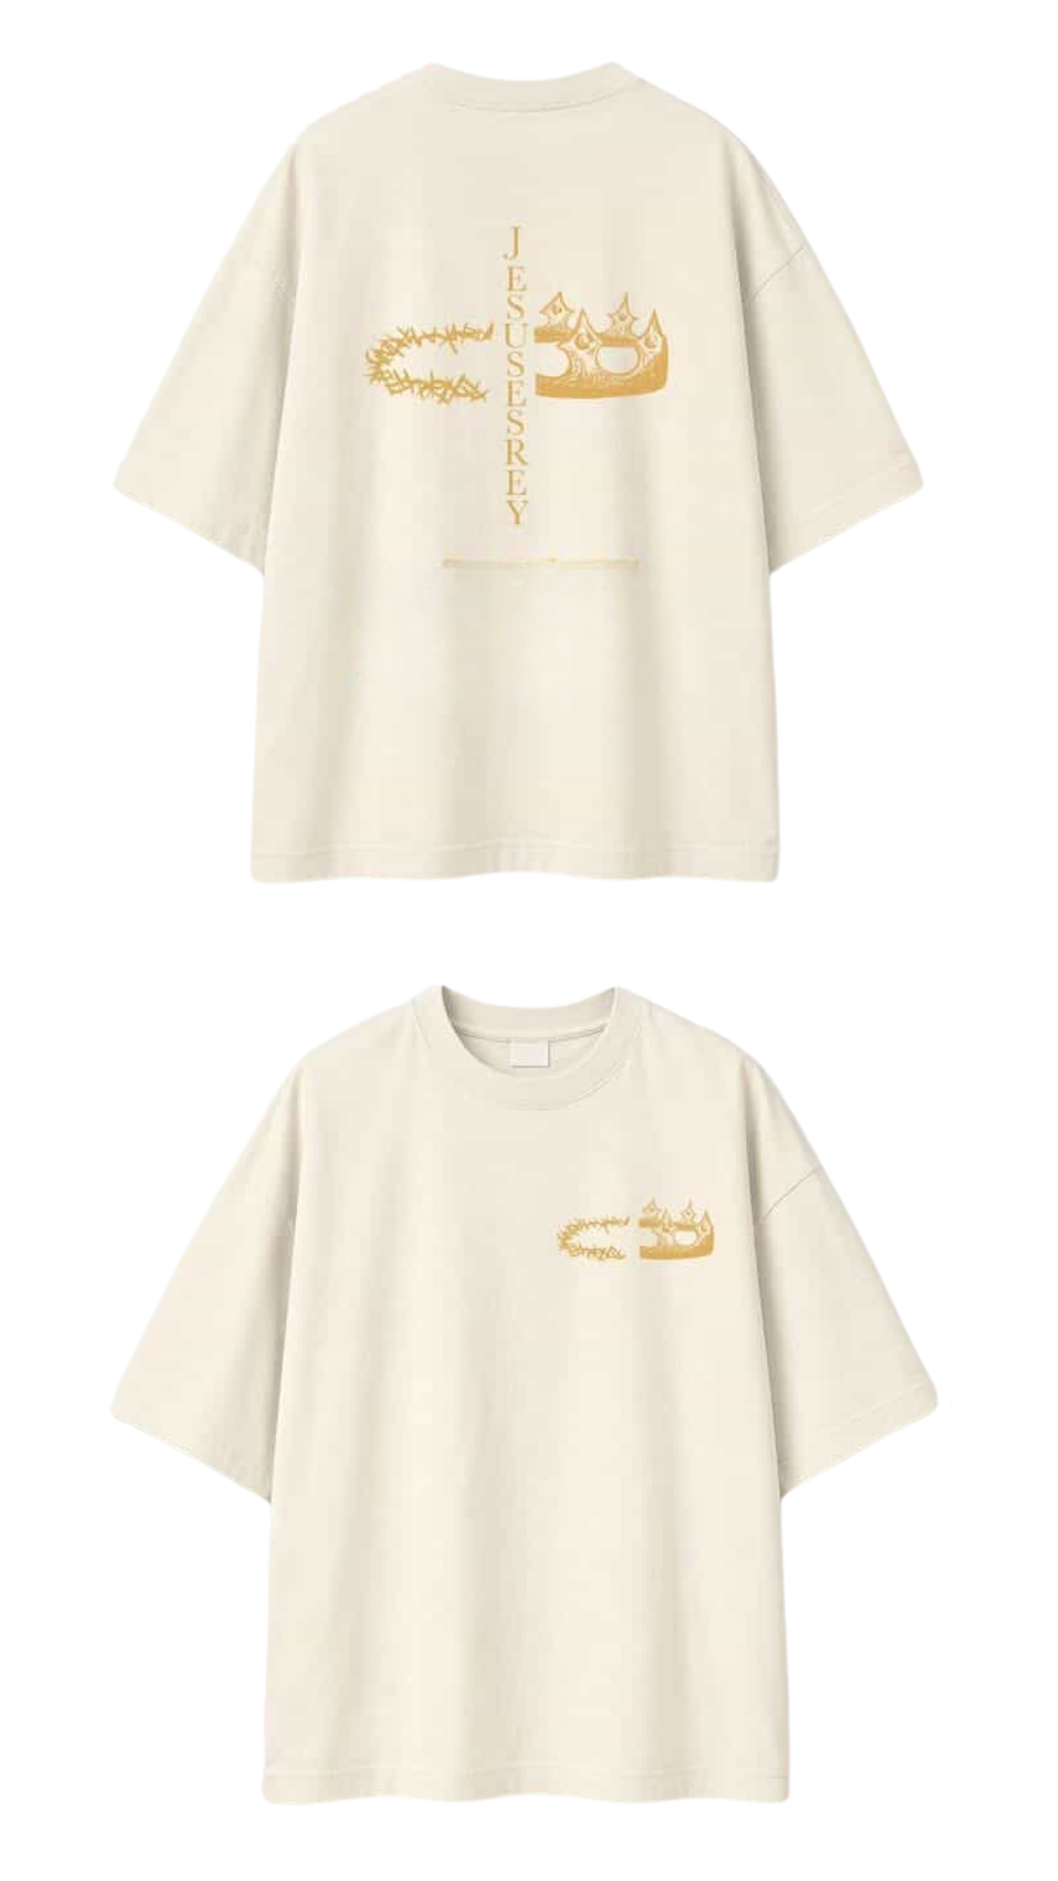
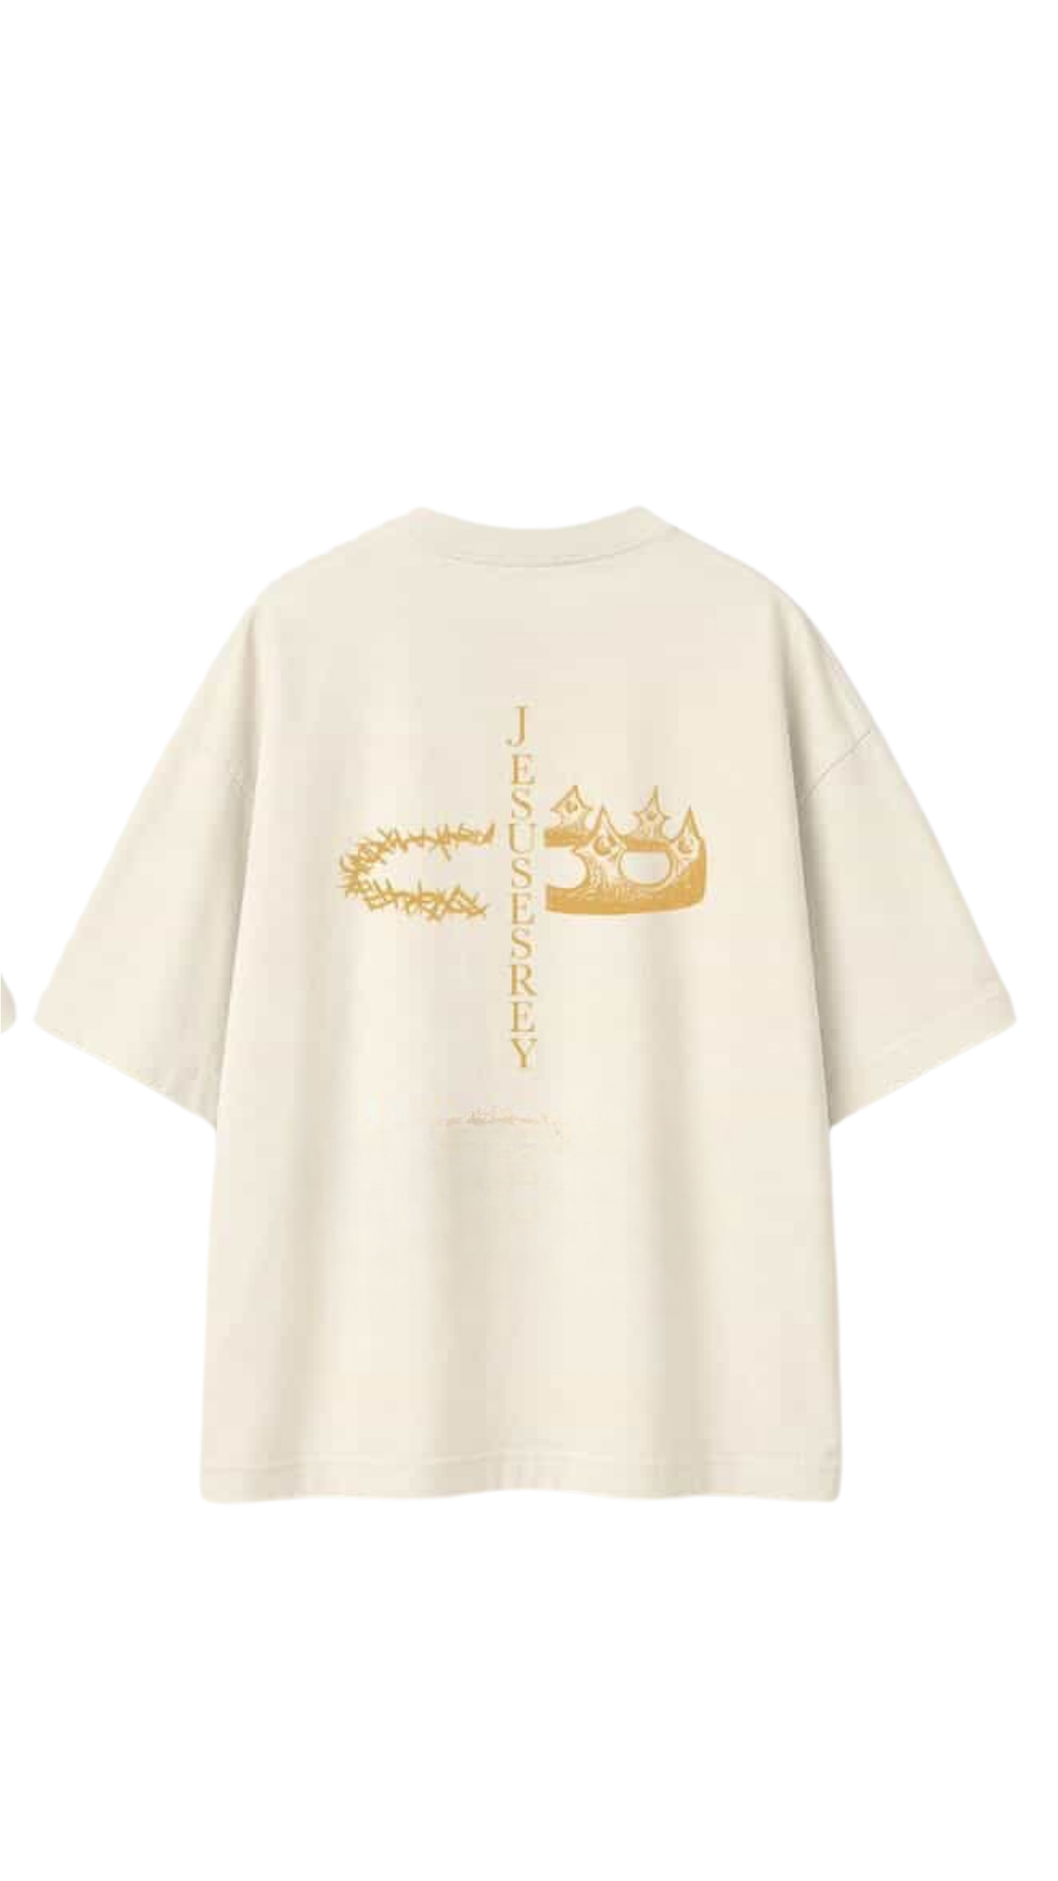
Merch: consistent card height + front/back lightbox tabs; content fixes
Merch page:
- Reserve thumbnail-row height on every card (visibility:hidden when a
  model has no back image) so front-only and front/back cards align
  at the same height.
- Zoom lightbox now shows "Frente"/"Espalda" tabs when a model has a
  back image, instead of only ever showing whichever image was active
  on the card; front-only models show no tabs.
- Official product photos added (jesus-es-rey front/back, me-hallaste
  front).

Content corrections (index.html, main.js, components.js, README.md,
CLAUDE.md, AGENTS.md, llms.txt):
- PVJ stands for "Plan Vacacional Juvenil", not "Proyecto Vida
  Juvenil".
- Organizing group is the Ministerio Juvenil (not "Ministerio de
  Proclamación") of Iglesia Bautista Emanuel, La Castellana, Caracas
  — corrected in the footer, Event JSON-LD organizer, README, and
  CLAUDE.md/AGENTS.md.
- Venue corrected to "Campamento Nacional Bautista, Campo Carabobo"
  (was the wrong name "Fundación Bautista Campo de Carabobo");
  flagged in CLAUDE.md/AGENTS.md/llms.txt/README as specific to the
  2026 edition, not a permanent fact.
- Hero verse now cites "Romanos 12:2 (NVI)" with the version, and the
  same "specific to this edition" caveat applies to the theme verse.

diff --git a/index.html b/index.html
@@ -33,16 +33,17 @@
       "@context": "https://schema.org",
       "@type": "Event",
       "name": "PVJ 2026 — In-Cómoda-Mente",
-      "description": "Campamento Juvenil cristiano basado en Romanos 12:2. Experiencia de 5 días con alojamiento, comidas, transporte y actividades incluidas. Salida desde Iglesia Bautista Emanuel, La Castellana, Caracas.",
+      "description": "Campamento Juvenil cristiano basado en Romanos 12:2. Experiencia de 5 días en el Campamento Nacional Bautista, Campo Carabobo, con alojamiento, comidas, transporte y actividades incluidas. Salida desde Iglesia Bautista Emanuel, La Castellana, Caracas.",
       "startDate": "2026-08-24",
       "endDate": "2026-08-28",
       "eventStatus": "https://schema.org/EventScheduled",
       "eventAttendanceMode": "https://schema.org/OfflineEventAttendanceMode",
       "location": {
         "@type": "Place",
-        "name": "Fundación Bautista Campo de Carabobo",
+        "name": "Campamento Nacional Bautista",
         "address": {
           "@type": "PostalAddress",
+          "streetAddress": "Campo Carabobo",
           "addressLocality": "Valencia",
           "addressRegion": "Carabobo",
           "addressCountry": "VE"
@@ -50,7 +51,7 @@
       },
       "organizer": {
         "@type": "Organization",
-        "name": "Iglesia Bautista Emanuel",
+        "name": "Ministerio Juvenil — Iglesia Bautista Emanuel",
         "url": "https://pvjcampamento.com/"
       },
       "offers": {
@@ -100,7 +101,7 @@
       "@type": "FAQPage",
       "mainEntity": [
         { "@type": "Question", "name": "¿Qué debo llevar al campamento?", "acceptedAnswer": { "@type": "Answer", "text": "Debes traer: ropa cómoda para actividades al aire libre, traje de baño, toalla, aseo personal, sábanas y cobijas, medicamentos (si aplica) y documentos de identidad. Te recomendamos no traer objetos de valor como joyas o equipos electrónicos costosos — el equipo no se responsabiliza por pérdidas o daños de objetos personales." } },
-        { "@type": "Question", "name": "¿Se incluye el transporte?", "acceptedAnswer": { "@type": "Answer", "text": "¡Sí, el transporte está incluido! Contarás con traslado desde la iglesia hasta Campo Carabobo en un transporte cómodo y seguro. No tienes que preocuparte por cómo llegar — nosotros te llevamos." } },
+        { "@type": "Question", "name": "¿Se incluye el transporte?", "acceptedAnswer": { "@type": "Answer", "text": "¡Sí, el transporte está incluido! Contarás con traslado desde la iglesia hasta el Campamento Nacional Bautista en Campo Carabobo, en un transporte cómodo y seguro. No tienes que preocuparte por cómo llegar — nosotros te llevamos." } },
         { "@type": "Question", "name": "¿Cuáles son los métodos de pago aceptados?", "acceptedAnswer": { "@type": "Answer", "text": "Aceptamos Bs. por pago móvil o transferencia a la tasa euro del día BCV. También recibimos efectivo en dólares o euros. Si dispones de otro método de pago, consúltalo al equipo." } },
         { "@type": "Question", "name": "¿Puedo pagar en cuotas?", "acceptedAnswer": { "@type": "Answer", "text": "No somos el logo amarillo, pero definitivamente puedes pagar en cómodas cuotas." } },
         { "@type": "Question", "name": "¿Cómo puedo apartar mi cupo?", "acceptedAnswer": { "@type": "Answer", "text": "Debes realizar un abono de mínimo 10 € a la tasa del día. Si tienes dudas, puedes consultarlo los domingos al finalizar cada culto, o escribirnos por Instagram o WhatsApp, o consultarlo con el staff." } },
@@ -134,7 +135,7 @@
             <p class="hero-subtitle">Campamento Juvenil <span class="hero-accent">2026</span></p>
             <div class="pulse-divider"></div>
             <p class="hero-subtitle" style="font-size: 1rem; margin-top: var(--spacing-lg);">
-                <span class="hero-accent">Romanos 12:2</span><br>No se amolden al mundo actual, sino sean transformados mediante la renovación de su mente.<br>Así podrán comprobar cómo es la voluntad de Dios: buena, agradable y perfecta.
+                <span class="hero-accent">Romanos 12:2 (NVI)</span><br>No se amolden al mundo actual, sino sean transformados mediante la renovación de su mente.<br>Así podrán comprobar cómo es la voluntad de Dios: buena, agradable y perfecta.
             </p>
 
             <!-- COUNTDOWN / CAMPING STATE — populated by main.js -->
@@ -159,7 +160,7 @@
                 <div class="event-detail-item">
                     <div class="event-detail-label">📍 Ubicación</div>
                     <div class="event-detail-value">Carabobo</div>
-                    <div class="event-detail-description">Campo Carabobo, Valencia</div>
+                    <div class="event-detail-description">Campamento Nacional Bautista, Campo Carabobo, Valencia</div>
                 </div>
             </div>
 
@@ -191,7 +192,7 @@
                 <div class="included-item">
                     <div class="included-icon">🚌</div>
                     <h3 class="included-title">Transporte Caracas-Valencia</h3>
-                    <p class="included-description">Viaje <span class="included-highlight">ida y vuelta</span> desde la iglesia hasta Campo Carabobo con autobús cómodo y seguro.</p>
+                    <p class="included-description">Viaje <span class="included-highlight">ida y vuelta</span> desde la iglesia hasta el Campamento Nacional Bautista en Campo Carabobo, con autobús cómodo y seguro.</p>
                 </div>
                 <div class="included-item">
                     <div class="included-icon">🏠</div>
@@ -319,7 +320,7 @@
         <noscript>
             <div class="faq-container">
                 <div class="faq-item active"><div class="faq-question"><span class="faq-question-text">¿Qué debo llevar al campamento?</span></div><div class="faq-answer"><div class="faq-answer-content"><p>Debes traer: ropa cómoda para actividades al aire libre, traje de baño, toalla, aseo personal, sábanas y cobijas, medicamentos (si aplica) y documentos de identidad. Te recomendamos no traer objetos de valor como joyas o equipos electrónicos costosos — el equipo no se responsabiliza por pérdidas o daños de objetos personales.</p></div></div></div>
-                <div class="faq-item active"><div class="faq-question"><span class="faq-question-text">¿Se incluye el transporte?</span></div><div class="faq-answer"><div class="faq-answer-content"><p>¡Sí, el transporte está incluido! Contarás con traslado desde la iglesia hasta Campo Carabobo en un transporte cómodo y seguro. No tienes que preocuparte por cómo llegar — nosotros te llevamos.</p></div></div></div>
+                <div class="faq-item active"><div class="faq-question"><span class="faq-question-text">¿Se incluye el transporte?</span></div><div class="faq-answer"><div class="faq-answer-content"><p>¡Sí, el transporte está incluido! Contarás con traslado desde la iglesia hasta el Campamento Nacional Bautista en Campo Carabobo, en un transporte cómodo y seguro. No tienes que preocuparte por cómo llegar — nosotros te llevamos.</p></div></div></div>
                 <div class="faq-item active"><div class="faq-question"><span class="faq-question-text">¿Cuáles son los métodos de pago aceptados?</span></div><div class="faq-answer"><div class="faq-answer-content"><p>Aceptamos Bs. por pago móvil o transferencia a la tasa euro del día BCV. También recibimos efectivo en dólares o euros. Si dispones de otro método de pago, consúltalo al equipo.</p></div></div></div>
                 <div class="faq-item active"><div class="faq-question"><span class="faq-question-text">¿Puedo pagar en cuotas?</span></div><div class="faq-answer"><div class="faq-answer-content"><p>No somos el logo amarillo, pero definitivamente puedes pagar en cómodas cuotas.</p></div></div></div>
                 <div class="faq-item active"><div class="faq-question"><span class="faq-question-text">¿Cómo puedo apartar mi cupo?</span></div><div class="faq-answer"><div class="faq-answer-content"><p>Debes realizar un abono de mínimo 10 € a la tasa del día. Si tienes dudas, puedes consultarlo los domingos al finalizar cada culto, o escribirnos por Instagram o WhatsApp, o consultarlo con el staff.</p></div></div></div>

diff --git a/mercancia.js b/mercancia.js
@@ -46,15 +46,15 @@ function renderMerchGallery() {
                 <img src="${model.front}" alt="Camisa ${model.name}" class="merch-card-image" data-main-image loading="lazy">
                 <button type="button" class="merch-card-zoom" aria-label="Ver imagen en grande">🔍 Ampliar</button>
             </div>
-            ${hasBack ? `
-            <div class="merch-card-thumbs">
+            <div class="merch-card-thumbs${hasBack ? '' : ' merch-card-thumbs--hidden'}">
+                ${hasBack ? `
                 <button type="button" class="merch-card-thumb active" data-image="${model.front}" aria-label="Ver frente">
                     <img src="${model.front}" alt="Frente ${model.name}" loading="lazy">
                 </button>
                 <button type="button" class="merch-card-thumb" data-image="${model.back}" aria-label="Ver espalda">
                     <img src="${model.back}" alt="Espalda ${model.name}" loading="lazy">
-                </button>
-            </div>` : ''}
+                </button>` : ''}
+            </div>
             <div class="merch-card-body">
                 <h3 class="merch-card-name">${model.name}</h3>
                 <p class="merch-card-colors">${merchColors.join(' · ')}</p>
@@ -88,7 +88,7 @@ function renderMerchGallery() {
         }
 
         card.querySelector('.merch-card-zoom').addEventListener('click', () => {
-            openMerchLightbox(mainImage.src, model.name);
+            openMerchLightbox(model, mainImage.src);
         });
 
         card.querySelector('.merch-card-cta').addEventListener('click', () => {
@@ -102,13 +102,40 @@ function renderMerchGallery() {
 // ============================================
 // IMAGE ZOOM LIGHTBOX
 // ============================================
-function openMerchLightbox(src, alt) {
+function openMerchLightbox(model, initialSrc) {
     const lightbox = document.getElementById('merchLightbox');
     const lightboxImage = document.getElementById('merchLightboxImage');
-    if (!lightbox || !lightboxImage) return;
+    const lightboxTabs = document.getElementById('merchLightboxTabs');
+    if (!lightbox || !lightboxImage || !lightboxTabs) return;
 
-    lightboxImage.src = src;
-    lightboxImage.alt = alt;
+    const hasBack = Boolean(model.back);
+    lightboxImage.src = initialSrc || model.front;
+    lightboxImage.alt = model.name;
+    lightboxTabs.innerHTML = '';
+
+    if (hasBack) {
+        const views = [
+            { label: 'Frente', src: model.front },
+            { label: 'Espalda', src: model.back }
+        ];
+        views.forEach(view => {
+            const tab = document.createElement('button');
+            tab.type = 'button';
+            tab.className = 'merch-lightbox-tab';
+            tab.textContent = view.label;
+            if (lightboxImage.src.endsWith(view.src)) {
+                tab.classList.add('active');
+            }
+            tab.addEventListener('click', () => {
+                lightboxImage.src = view.src;
+                lightboxImage.alt = `${view.label} ${model.name}`;
+                lightboxTabs.querySelectorAll('.merch-lightbox-tab').forEach(t => t.classList.remove('active'));
+                tab.classList.add('active');
+            });
+            lightboxTabs.appendChild(tab);
+        });
+    }
+
     lightbox.classList.add('active');
 }
 

diff --git a/styles.css b/styles.css
@@ -3478,9 +3478,15 @@ a:focus {
 
 .merch-card-thumbs {
     display: flex;
+    align-items: center;
     gap: var(--spacing-xs);
+    min-height: calc(3rem + 2 * var(--spacing-xs));
     padding: var(--spacing-xs) var(--spacing-md);
     background: #ffffff;
+}
+
+.merch-card-thumbs--hidden {
+    visibility: hidden;
 }
 
 .merch-card-thumb {
@@ -3710,12 +3716,42 @@ a:focus {
     display: flex;
 }
 
+.merch-lightbox-content {
+    display: flex;
+    flex-direction: column;
+    align-items: center;
+    gap: var(--spacing-md);
+}
+
 .merch-lightbox-image {
     max-width: min(90vw, 700px);
-    max-height: 85vh;
+    max-height: 80vh;
     object-fit: contain;
     background: #ffffff;
     border-radius: 8px;
+}
+
+.merch-lightbox-tabs {
+    display: flex;
+    gap: var(--spacing-sm);
+}
+
+.merch-lightbox-tab {
+    background: transparent;
+    border: 1px solid var(--border-subtle);
+    color: var(--text-secondary);
+    padding: 6px 20px;
+    border-radius: 999px;
+    font-size: 0.9rem;
+    font-weight: 600;
+    cursor: pointer;
+    transition: border-color var(--transition-fast), color var(--transition-fast);
+}
+
+.merch-lightbox-tab.active,
+.merch-lightbox-tab:hover {
+    border-color: var(--accent-lime);
+    color: var(--accent-lime);
 }
 
 .merch-lightbox-close {

diff --git a/components.js b/components.js
@@ -84,7 +84,7 @@
             <div class="footer-content">
                 <div class="footer-section">
                     <h3>PVJ 2026</h3>
-                    <p>Plan Vacacional Juvenil 2026: In-Cómoda-Mente. Gestionado bajo la coordinación de jóvenes, y Ministerio de Proclamación de la Iglesia Bautista Emanuel. Campamento con propósito de crecimiento espiritual en los jóvenes.</p>
+                    <p>Plan Vacacional Juvenil 2026: In-Cómoda-Mente. Gestionado por el Ministerio Juvenil de la Iglesia Bautista Emanuel (La Castellana, Caracas). Campamento con propósito de crecimiento espiritual en los jóvenes.</p>
                 </div>
                 <div class="footer-section">
                     <h3>Enlaces Rápidos</h3>

diff --git a/main.js b/main.js
@@ -8,7 +8,7 @@ const faqData = [
     },
     {
         question: "¿Se incluye el transporte?",
-        answer: "¡Sí, el transporte está incluido! Contarás con traslado desde la iglesia hasta Campo Carabobo en un transporte cómodo y seguro. No tienes que preocuparte por cómo llegar — nosotros te llevamos."
+        answer: "¡Sí, el transporte está incluido! Contarás con traslado desde la iglesia hasta el Campamento Nacional Bautista en Campo Carabobo, en un transporte cómodo y seguro. No tienes que preocuparte por cómo llegar — nosotros te llevamos."
     },
     {
         question: "¿Cuáles son los métodos de pago aceptados?",

diff --git a/mercancia.html b/mercancia.html
@@ -217,7 +217,10 @@
     <!-- IMAGE ZOOM LIGHTBOX -->
     <div id="merchLightbox" class="merch-lightbox">
         <button type="button" id="merchLightboxClose" class="merch-lightbox-close" aria-label="Cerrar">&times;</button>
-        <img id="merchLightboxImage" src="" alt="" class="merch-lightbox-image">
+        <div class="merch-lightbox-content">
+            <img id="merchLightboxImage" src="" alt="" class="merch-lightbox-image">
+            <div id="merchLightboxTabs" class="merch-lightbox-tabs"></div>
+        </div>
     </div>
 
     <script src="config.js"></script>

diff --git a/README.md b/README.md
@@ -1,14 +1,14 @@
 # PVJ 2026 — In-Cómoda-Mente
 
-Sitio web estático de marketing para el **Campamento Juvenil PVJ 2026 "In-Cómoda-Mente"**, organizado por el Ministerio de Proclamación de la Iglesia Bautista Emanuel (IBE), Caracas, Venezuela.
+Sitio web estático de marketing para el **Campamento Juvenil PVJ ("Plan Vacacional Juvenil") 2026 "In-Cómoda-Mente"**, organizado por el Ministerio Juvenil de la Iglesia Bautista Emanuel (IBE), La Castellana, Caracas, Venezuela.
 
 ## Sobre el evento
 
 - **Nombre:** In-Cómoda-Mente
 - **Fecha:** 24–28 de agosto de 2026
-- **Lugar:** Campo Carabobo, Valencia, Venezuela
+- **Lugar (edición 2026):** Campamento Nacional Bautista, Campo Carabobo, Valencia, Venezuela — la sede varía cada año, no asumir que se repite
 - **Público:** Jóvenes de 14 a 25 años
-- **Tema bíblico:** Romanos 12:2 — *"No se amolden al mundo actual, sino sean transformados."*
+- **Tema bíblico (edición 2026):** Romanos 12:2 (NVI) — *"No se amolden al mundo actual, sino sean transformados mediante la renovación de su mente. Así podrán comprobar cómo es la voluntad de Dios: buena, agradable y perfecta."* — tema específico de esta edición, puede cambiar en años futuros
 - **Precio:** €95 por persona (todo incluido: comidas, transporte, alojamiento, actividades)
 
 ## Tecnología
@@ -20,12 +20,15 @@ Sitio 100% estático — sin frameworks, sin build tools, sin dependencias.
 | `index.html` | Página principal |
 | `pagos.html` | Calculadora BCV + reporte de pago |
 | `donaciones.html` | Programa de becas y donaciones |
+| `mercancia.html` | Venta de camisas pro-fondo (catálogo + pedido por WhatsApp) |
 | `styles.css` | Sistema de diseño completo (variables CSS, layout, responsive) |
 | `config.js` | Constantes globales del sitio (`SITE_URL`, `INSCRIPTION_URL`, etc.) |
 | `components.js` | Header y footer compartidos — única fuente de verdad |
 | `main.js` | Countdown, tasa BCV en vivo, calculadora €→Bs, FAQ |
 | `donaciones.js` | FAQ de donaciones, animaciones de scroll |
-| `assets/` | Imágenes: favicon y logo de navegación |
+| `mercancia.js` | Catálogo de camisas, formulario de pedido, mensaje de WhatsApp |
+| `llms.txt` | Resumen del sitio para agentes de IA |
+| `assets/` | Imágenes: favicon, logo de navegación, fotos de mercancía |
 
 ## Desarrollo local
 

diff --git a/AGENTS.md b/AGENTS.md
@@ -4,9 +4,11 @@ This file provides guidance to AI coding agents (Cursor, Codex, Windsurf, and si
 
 ## Project Overview
 
-PVJ (Proyecto Vida Juvenil) is a static marketing website for a youth camp event called **"In-Cómoda-Mente"**, targeting attendees aged 14–25 in Venezuela (Carabobo, Valencia). The event runs **August 24–28, 2026**, organized under the Ministerio de Proclamación of Iglesia Bautista Emanuel (IBE).
+PVJ (**Plan Vacacional Juvenil**) is a static marketing website for a youth camp event called **"In-Cómoda-Mente"**, targeting attendees aged 14–25. The event runs **August 24–28, 2026**, organized by the Ministerio Juvenil ("youth ministry") of Iglesia Bautista Emanuel (IBE), based in La Castellana, Caracas — the organizing group is from Caracas, not from the camp's host region.
 
-Biblical theme: Romanos 12:2 — "No se amolden al mundo actual, sino sean transformados."
+> **⚠ These facts change every edition — do not treat them as permanent:**
+> - **Venue**: varies each year. For **2026** it's the Campamento Nacional Bautista, Campo Carabobo, Valencia (Carabobo state). Don't assume next year's edition uses the same location.
+> - **Biblical theme**: also specific to this edition. For **2026** it's Romanos 12:2 (NVI) — "No se amolden al mundo actual, sino sean transformados mediante la renovación de su mente. Así podrán comprobar cómo es la voluntad de Dios: buena, agradable y perfecta." Always include the version (e.g. "NVI") when quoting Scripture, and update every occurrence (hero, JSON-LD, `llms.txt`, README) together if it changes.
 
 ## Development
 

diff --git a/CLAUDE.md b/CLAUDE.md
@@ -4,9 +4,11 @@ This file provides guidance to Claude Code (claude.ai/code) when working with co
 
 ## Project Overview
 
-PVJ (Proyecto Vida Juvenil) is a static marketing website for a youth camp event called **"In-Cómoda-Mente"**, targeting attendees aged 14–25 in Venezuela (Carabobo, Valencia). The event runs **August 24–28, 2026**, organized under the Ministerio de Proclamación of Iglesia Bautista Emanuel (IBE).
+PVJ (**Plan Vacacional Juvenil**) is a static marketing website for a youth camp event called **"In-Cómoda-Mente"**, targeting attendees aged 14–25. The event runs **August 24–28, 2026**, organized by the Ministerio Juvenil ("youth ministry") of Iglesia Bautista Emanuel (IBE), based in La Castellana, Caracas — the organizing group is from Caracas, not from the camp's host region.
 
-Biblical theme: Romanos 12:2 — "No se amolden al mundo actual, sino sean transformados."
+> **⚠ These facts change every edition — do not treat them as permanent:**
+> - **Venue**: varies each year. For **2026** it's the Campamento Nacional Bautista, Campo Carabobo, Valencia (Carabobo state). Don't assume next year's edition uses the same location.
+> - **Biblical theme**: also specific to this edition. For **2026** it's Romanos 12:2 (NVI) — "No se amolden al mundo actual, sino sean transformados mediante la renovación de su mente. Así podrán comprobar cómo es la voluntad de Dios: buena, agradable y perfecta." Always include the version (e.g. "NVI") when quoting Scripture, and update every occurrence (hero, JSON-LD, `llms.txt`, README) together if it changes.
 
 ## Development
 
